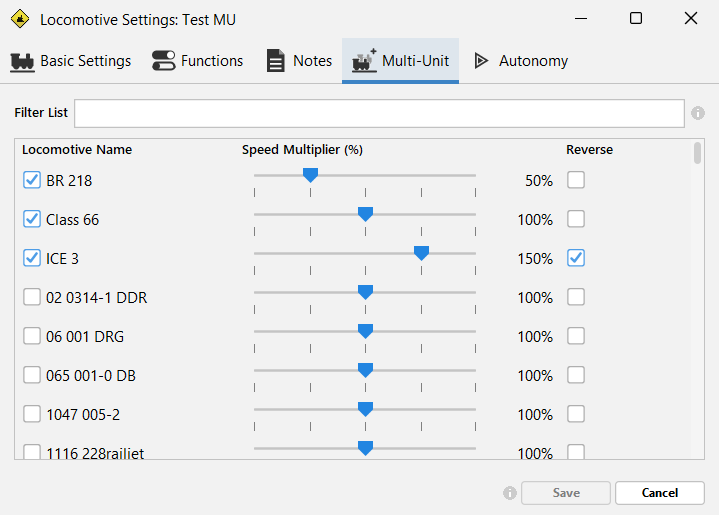
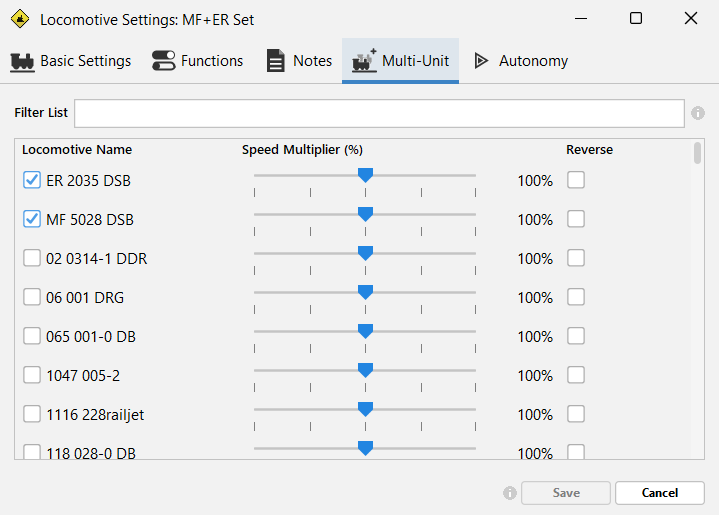
FR-229: multi-unit picture retaken with a DSB ER and MF pair

diff --git a/Readme.md b/Readme.md
@@ -81,7 +81,7 @@ The Locomotive Settings window, on its `Basic Settings` tab, with the locomotive
 
 Multi-units can be configured in TrainControl, which can be simpler than using the Central Station.
 
-![Configuring a Marklin multi-unit in TrainControl by linking several locomotives together](assets/multiunit.png?raw=true)
+![Configuring a Marklin multi-unit in TrainControl by linking two DSB railcars, ER 2035 and MF 5028, into one unit](assets/multiunit.png?raw=true)
 
 **Layout View & Layout Editing**
 
